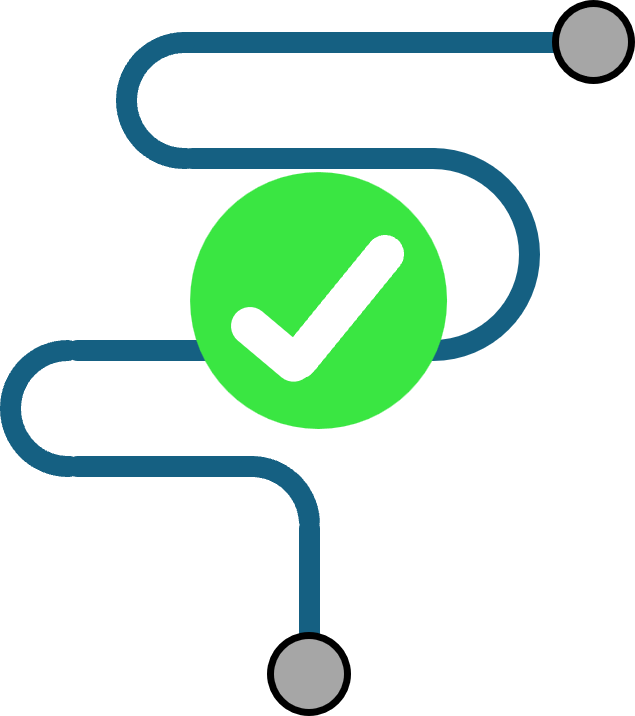
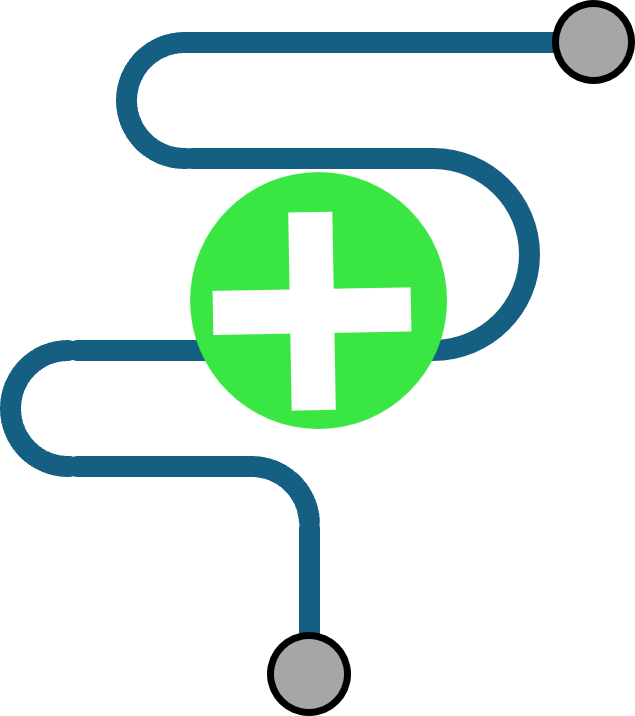
新增圖片資源

Changed region(s): [[0.3291, 0.2765, 0.6583, 0.5838]]

diff --git a/MyCAM/Properties/Resources.Designer.cs b/MyCAM/Properties/Resources.Designer.cs
@@ -63,6 +63,16 @@ namespace MyCAM.Properties {
         /// <summary>
         ///   查詢類型 System.Drawing.Bitmap 的當地語系化資源。
         /// </summary>
+        internal static System.Drawing.Bitmap AcrCenter {
+            get {
+                object obj = ResourceManager.GetObject("AcrCenter", resourceCulture);
+                return ((System.Drawing.Bitmap)(obj));
+            }
+        }
+        
+        /// <summary>
+        ///   查詢類型 System.Drawing.Bitmap 的當地語系化資源。
+        /// </summary>
         internal static System.Drawing.Bitmap AddFeature {
             get {
                 object obj = ResourceManager.GetObject("AddFeature", resourceCulture);
@@ -96,6 +106,16 @@ namespace MyCAM.Properties {
         internal static System.Drawing.Bitmap DeletePath {
             get {
                 object obj = ResourceManager.GetObject("DeletePath", resourceCulture);
+                return ((System.Drawing.Bitmap)(obj));
+            }
+        }
+        
+        /// <summary>
+        ///   查詢類型 System.Drawing.Bitmap 的當地語系化資源。
+        /// </summary>
+        internal static System.Drawing.Bitmap EdgeCenter {
+            get {
+                object obj = ResourceManager.GetObject("EdgeCenter", resourceCulture);
                 return ((System.Drawing.Bitmap)(obj));
             }
         }
@@ -163,6 +183,16 @@ namespace MyCAM.Properties {
         /// <summary>
         ///   查詢類型 System.Drawing.Bitmap 的當地語系化資源。
         /// </summary>
+        internal static System.Drawing.Bitmap PointCenter {
+            get {
+                object obj = ResourceManager.GetObject("PointCenter", resourceCulture);
+                return ((System.Drawing.Bitmap)(obj));
+            }
+        }
+        
+        /// <summary>
+        ///   查詢類型 System.Drawing.Bitmap 的當地語系化資源。
+        /// </summary>
         internal static System.Drawing.Bitmap Reverse {
             get {
                 object obj = ResourceManager.GetObject("Reverse", resourceCulture);
@@ -216,6 +246,16 @@ namespace MyCAM.Properties {
         internal static System.Drawing.Bitmap TraverseParam {
             get {
                 object obj = ResourceManager.GetObject("TraverseParam", resourceCulture);
+                return ((System.Drawing.Bitmap)(obj));
+            }
+        }
+        
+        /// <summary>
+        ///   查詢類型 System.Drawing.Bitmap 的當地語系化資源。
+        /// </summary>
+        internal static System.Drawing.Bitmap TwoVertexConnect {
+            get {
+                object obj = ResourceManager.GetObject("TwoVertexConnect", resourceCulture);
                 return ((System.Drawing.Bitmap)(obj));
             }
         }

diff --git a/MyCAM/StartupForm.Designer.cs b/MyCAM/StartupForm.Designer.cs
@@ -87,6 +87,7 @@
 			this.m_tsbManualTransAxialPar = new System.Windows.Forms.ToolStripButton();
 			this.m_tsbManualTransPointCoincide = new System.Windows.Forms.ToolStripButton();
 			this.m_tsbManualTransDone = new System.Windows.Forms.ToolStripButton();
+			this.m_tsbAddPoint_AcrCenter = new System.Windows.Forms.ToolStripButton();
 			this.m_msMode.SuspendLayout();
 			this.m_tsCAMFunction.SuspendLayout();
 			this.m_tsAddFeactureSubFunc.SuspendLayout();
@@ -462,7 +463,8 @@
 			this.m_tsCADFunction.ImageScalingSize = new System.Drawing.Size(40, 40);
 			this.m_tsCADFunction.Items.AddRange(new System.Windows.Forms.ToolStripItem[] {
             this.m_tsbAddFeature,
-            this.m_tsbTransform});
+            this.m_tsbTransform,
+            this.m_tsbAddPoint_AcrCenter});
 			this.m_tsCADFunction.Location = new System.Drawing.Point(0, 0);
 			this.m_tsCADFunction.Name = "m_tsCADFunction";
 			this.m_tsCADFunction.Size = new System.Drawing.Size(1065, 21);
@@ -735,6 +737,15 @@
 			this.m_tsbManualTransDone.Text = "完成";
 			this.m_tsbManualTransDone.Click += new System.EventHandler(this.m_tsbManualTransDone_Click);
 			// 
+			// m_tsbAddPoint_AcrCenter
+			// 
+			this.m_tsbAddPoint_AcrCenter.DisplayStyle = System.Windows.Forms.ToolStripItemDisplayStyle.Text;
+			this.m_tsbAddPoint_AcrCenter.Image = ((System.Drawing.Image)(resources.GetObject("m_tsbAddPoint_AcrCenter.Image")));
+			this.m_tsbAddPoint_AcrCenter.ImageTransparentColor = System.Drawing.Color.Magenta;
+			this.m_tsbAddPoint_AcrCenter.Name = "m_tsbAddPoint_AcrCenter";
+			this.m_tsbAddPoint_AcrCenter.Size = new System.Drawing.Size(89, 18);
+			this.m_tsbAddPoint_AcrCenter.Text = "新增圓弧中心";
+			// 
 			// StartupForm
 			// 
 			this.AutoScaleMode = System.Windows.Forms.AutoScaleMode.None;
@@ -845,6 +856,7 @@
 		private System.Windows.Forms.ToolStripButton m_tsbTraverseParamSetting;
 		private System.Windows.Forms.ToolStripButton m_tsbConvertNC;
 		private System.Windows.Forms.ToolStripButton m_tsbFlipLead;
+		private System.Windows.Forms.ToolStripButton m_tsbAddPoint_AcrCenter;
 	}
 }
 
